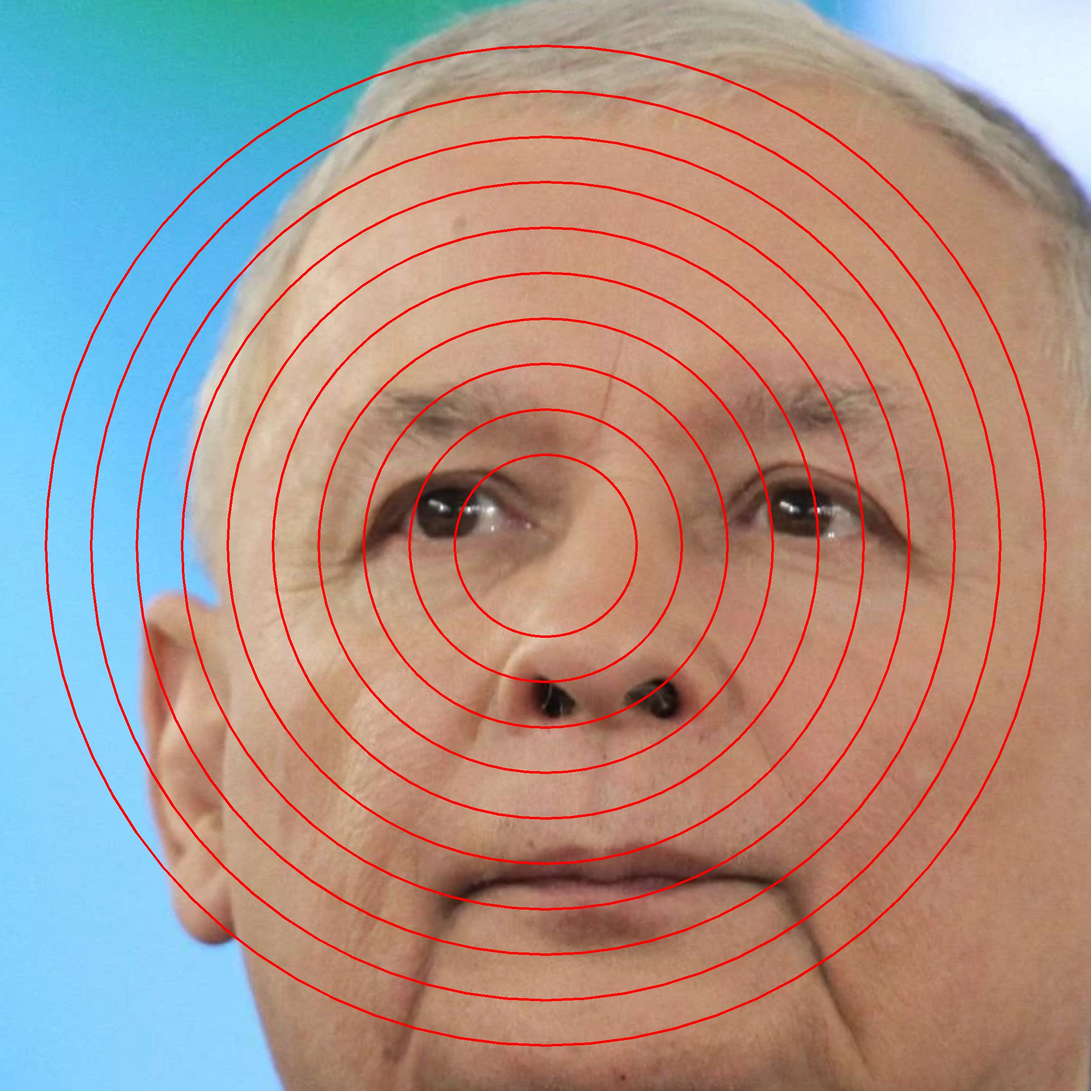
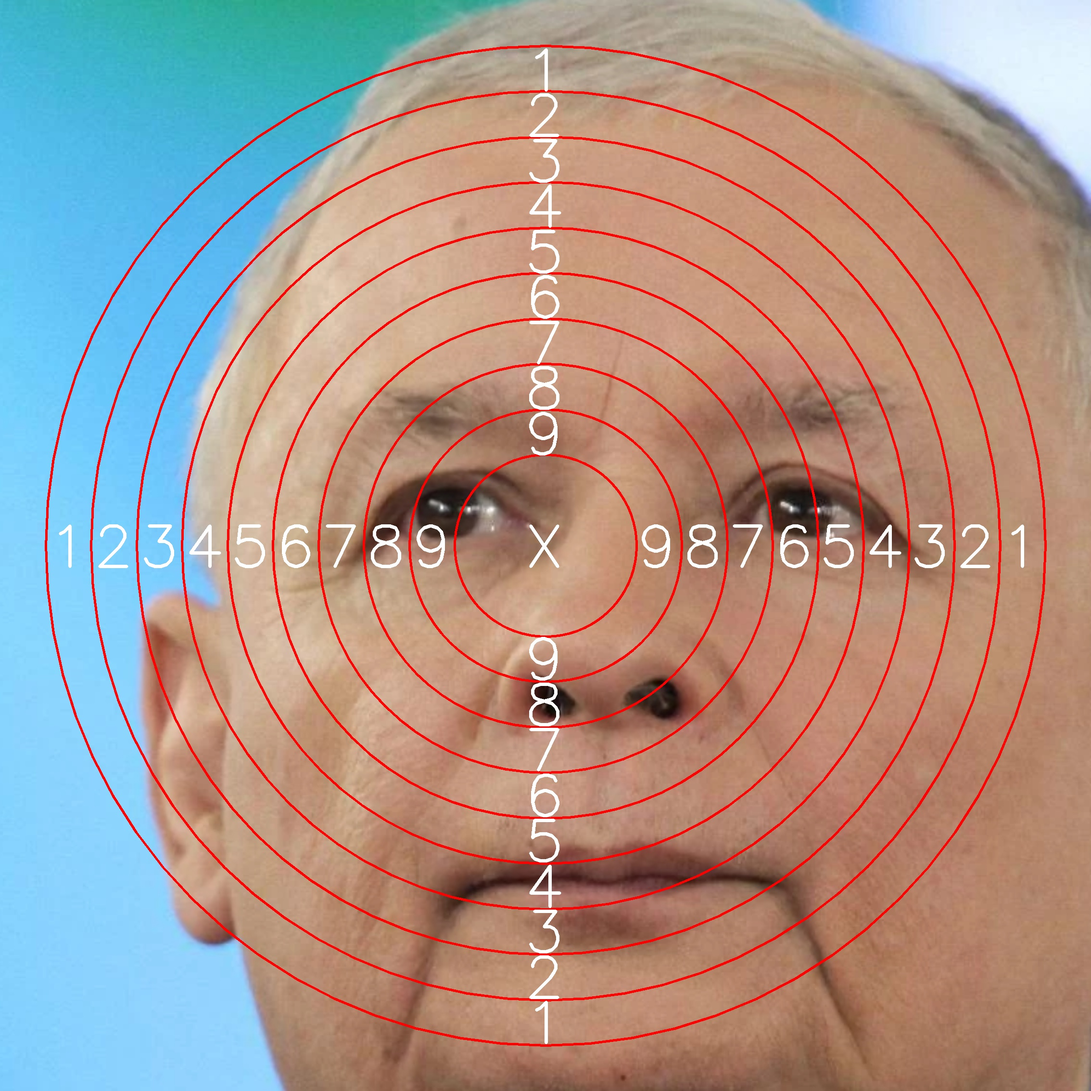
Adding number for target

diff --git a/imageclass.h b/imageclass.h
@@ -13,8 +13,9 @@ public:
     void drawCircle(int radius, int sizeLine);           // drawing a circles from the middle of it
     void sizeImage(int width, int height);               // at begining without parameters after we add size of targets
     void humanDetect();                                  // For detection contours of human
-    cv::Mat faceDetection(const std::string& filename);  // Return MAt with detected face on orginal picture
+    cv::Mat faceDetection(const std::string & filename);  // Return MAt with detected face on orginal picture
     cv::Mat findContures();
+    cv::Mat writeNumber(const std::string & Noumber, int posposX, int posY); //Return image with writen number on in;
 
     // private:
     static std::string createOutFilename(const std::string& inputFilename);  // remember it was privat temporary

diff --git a/main.cpp b/main.cpp
@@ -14,9 +14,16 @@ int main() {
         my_image.sizeImage(600, 600);
         for (int i = 0; i < 10; i++) {
             my_image.drawCircle(mmToPx(50 + 25 * i), mmToPx(1));
+            if (i!=0) {
+                        my_image.writeNumber(std::to_string(10 - i), mmToPx(337) + mmToPx(25 * i), mmToPx(300));
+                my_image.writeNumber(std::to_string(10 - i), mmToPx(300), mmToPx(263) - mmToPx(25 * i));
+                my_image.writeNumber(std::to_string(10 - i), mmToPx(263) - mmToPx(25 * i), mmToPx(300));
+                my_image.writeNumber(std::to_string(10 - i), mmToPx(300),mmToPx(337) + mmToPx(25 * i));
+            }
         }
+        my_image.writeNumber("X", mmToPx(300), mmToPx(300));
 
-        my_image.show();
+//        my_image.show();
         my_image.saveImage();
     }
 

diff --git a/imageclass.cpp b/imageclass.cpp
@@ -120,3 +120,20 @@ cv::Mat ImageMap::findContures() {
 
     return pixelsCopy;
 }
+
+cv::Mat ImageMap::writeNumber(const std::string & Number, int pozX, int pozY){
+
+    cv::Mat dupa;
+    //Font and parameter to them (to be checked
+    int font = cv::FONT_HERSHEY_SIMPLEX;
+    double fontScale = 4;
+    int thickness = 5;
+    int baseline = 0;
+    //checking size of text to be sure that will be on position that we want
+    cv::Size textSize = cv::getTextSize(Number, font, fontScale, thickness, &baseline);
+    // Position the text in the center of the image
+    cv::Point textOrg((2*pozX - textSize.width)/2, (2*pozY+textSize.height)/2);
+    cv::putText(pixels,Number,textOrg,font,fontScale, cv::Scalar(255,255,255),thickness);
+
+    return dupa;
+}
